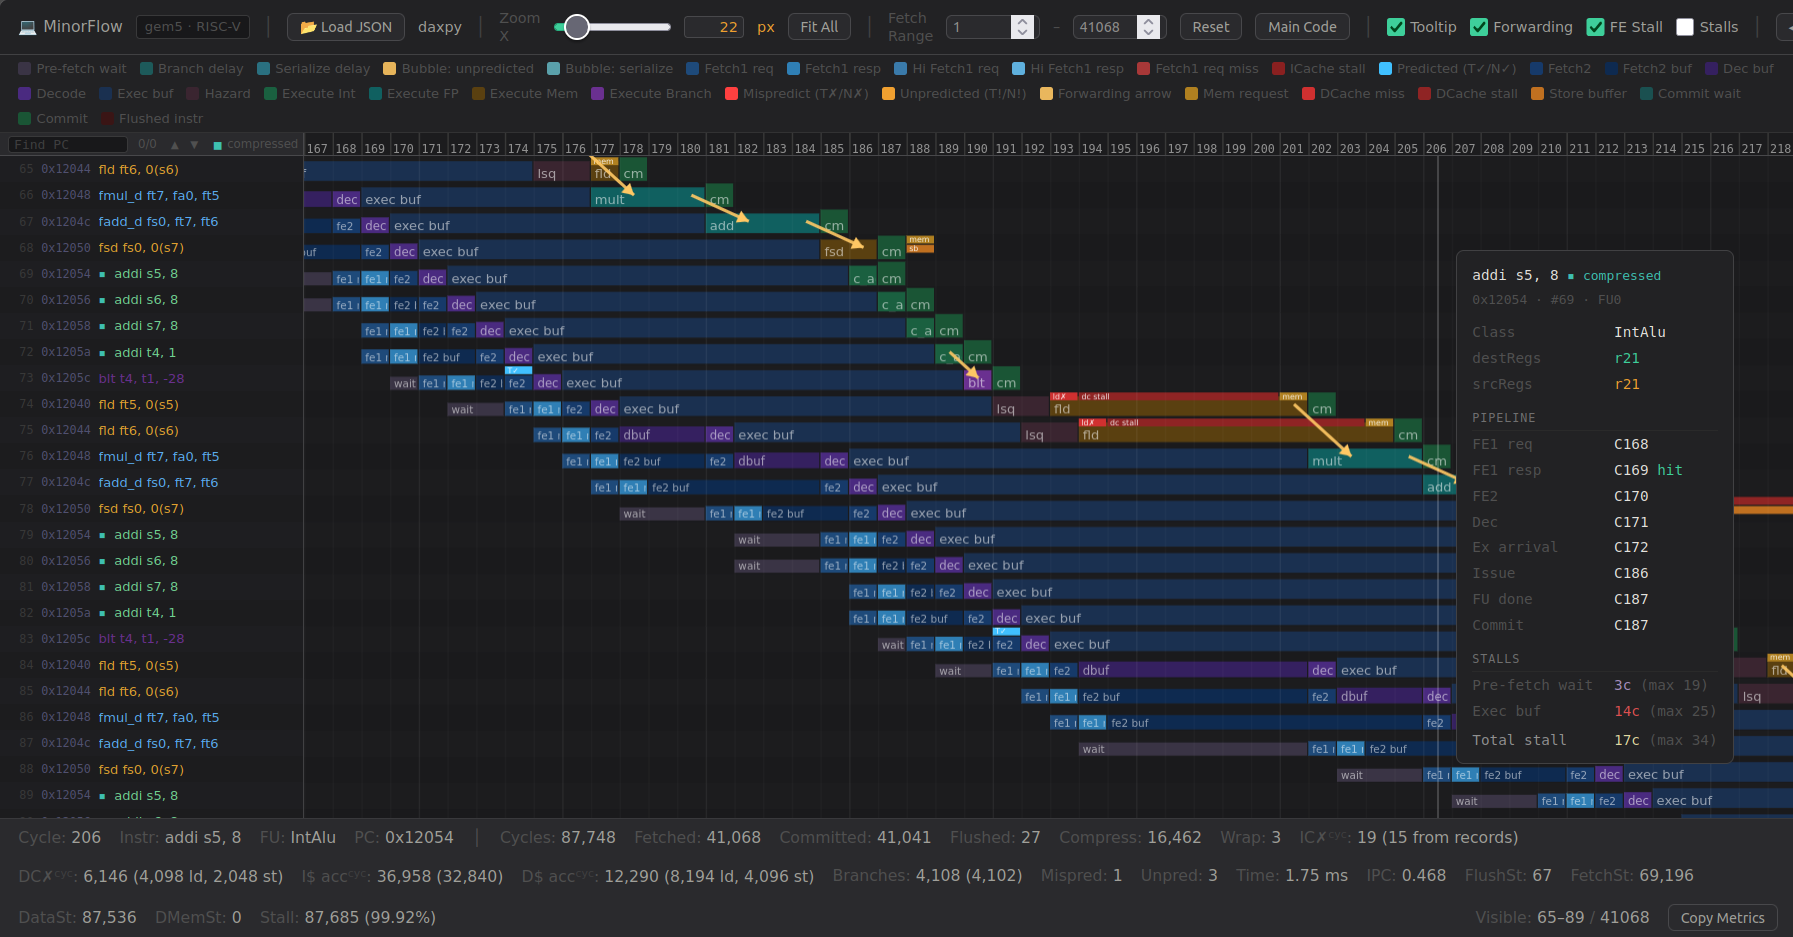
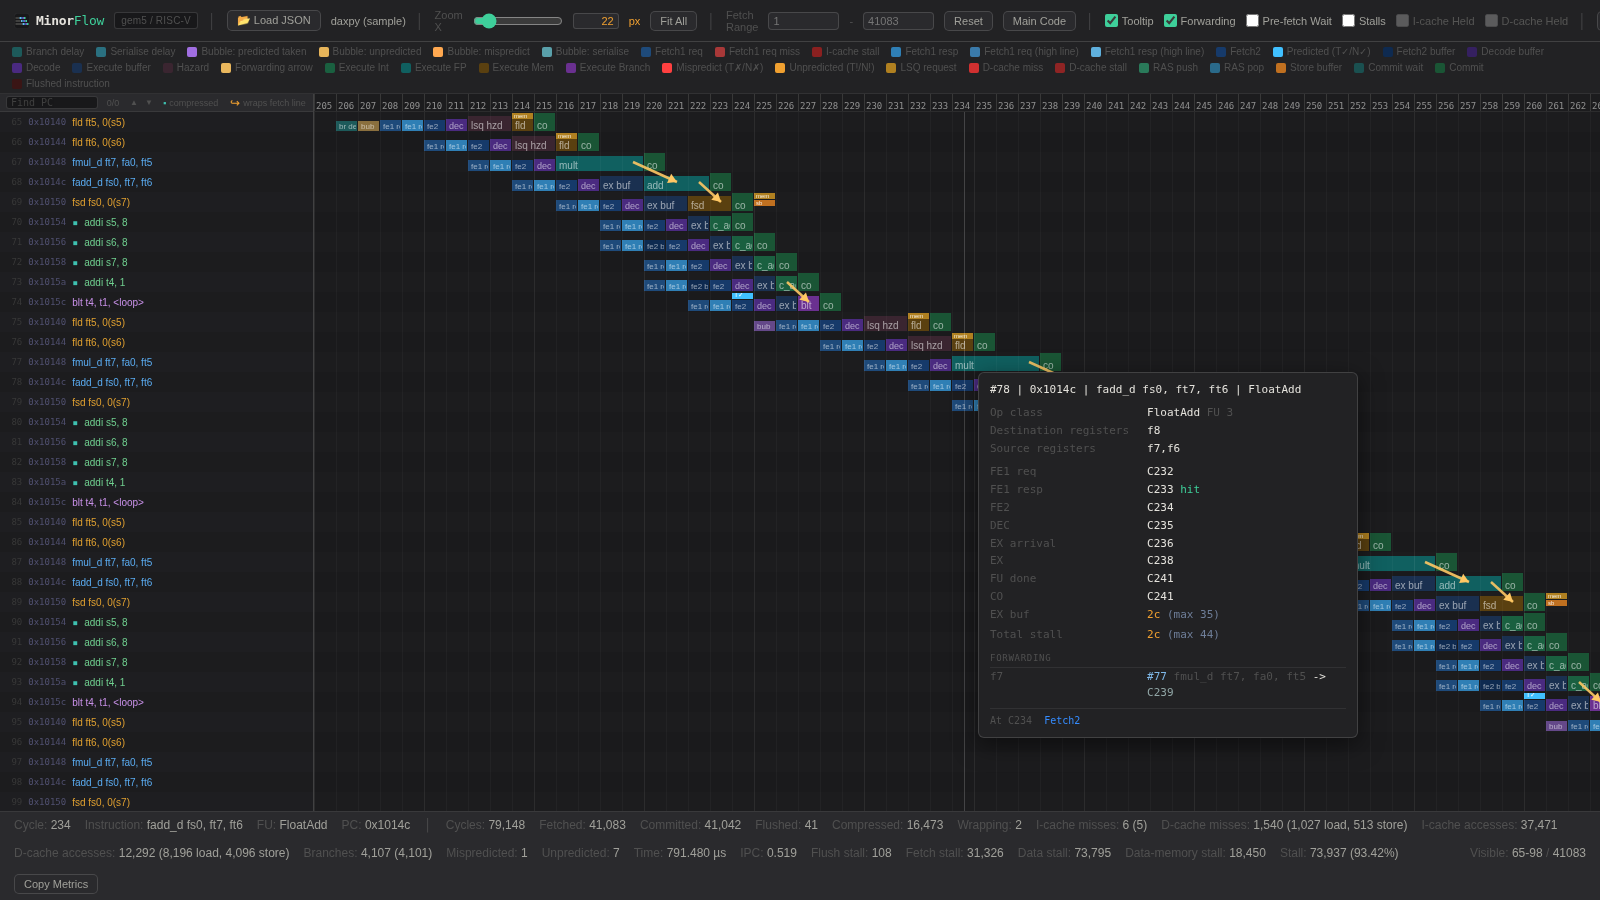
Open with a GIF tour and retake the screenshot with the new mark

diff --git a/README.md b/README.md
@@ -2,7 +2,7 @@
 
 A browser-based pipeline visualiser for gem5's MinorCPU. It reconstructs the pipeline cycle by cycle from a gem5 debug trace and draws every instruction that reached Execute as a row, so you can see exactly where cycles are being lost.
 
-![MinorFlow rendering the MinorCPU pipeline](docs/MinorFlow_intro.png)
+![MinorFlow loading its daxpy sample, zooming into the MinorCPU pipeline, and showing forwarding and an instruction's timeline](docs/MinorFlow_demo.gif)
 
 ## Motivation
 
